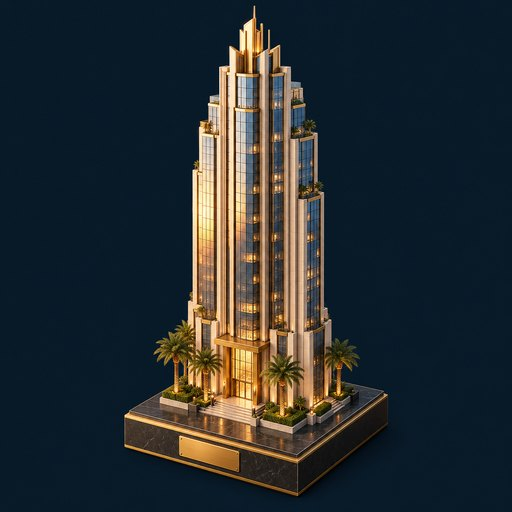
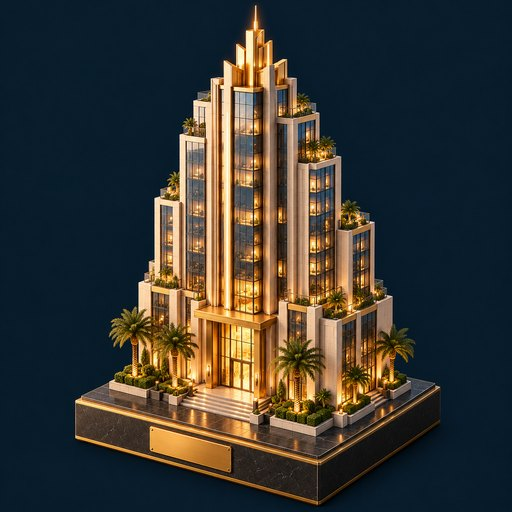
Skyline Estates: new Skyline Tower art; buildings face the player at camera angle
Claude-Session: https://claude.ai/code/session_01RNdXtxj5jJWnrVFgMCF1s1

diff --git a/skyline-estates/game.html b/skyline-estates/game.html
@@ -6923,7 +6923,7 @@ BLD.splice(0,BLD.length,
   ['Townhouse','A pair of townhouses with terracotta fins, timber louvres and glass balconies.','2 houses'],
   ['Apartments','Three floors of glass balconies and planters, with solar panels on the roof.','3 houses'],
   ['Boutique hotel','Terracotta pilasters, flower-box balconies and a tiled roof pavilion with a garden terrace.','4 houses'],
-  ['Skyline Tower','A glass skyscraper with stone fins, a golden crown and palms at the door.','Tower']);
+  ['Skyline Tower','A stepped art deco tower with lit windows, sky gardens, a gold crown and palms at the door.','Tower']);
 paneBuildings=function(T){
   T.innerHTML=`<div class="phead"><h2>Buildings</h2><span class="small">What grows on your streets as you build</span></div>
     <div class="small">Own a full colour set to start building. Each house you add grows the street to the next building, and after four houses you can build the Skyline Tower. The more you build, the higher the rent.</div>
@@ -6933,7 +6933,7 @@ if(PREF.illBld===undefined)PREF.illBld=true;
 const BLDTEX={};
 function bldTex(l,cb){let e=BLDTEX[l];if(e){e.t?cb(e.t):e.q.push(cb);return}e=BLDTEX[l]={t:null,q:[cb]};
   const im=new Image();im.onload=()=>{if(!GL)return;const c=document.createElement('canvas');c.width=c.height=512;c.getContext('2d').drawImage(im,0,0,512,512);e.t=texFrom(c);e.q.forEach(f=>f(e.t));e.q=[]};im.src=bldPic(l)}
-const BLD_SC=[.8,.88,.98,1.04,1.14,1.5];
+const BLD_SC=[.8,.88,.98,1.04,1.14,1.32];
 function bldBill(b,lv,col,mort){const F=FM();
   
   const mt=mat(mort?'#8a8f96':'#ffffff',{unlit:1,blend:1}),q=N(bQuad(),mt,0,0,0).sc(BLD_SC[lv]);q.visible=false;b.add(q);
@@ -6960,8 +6960,8 @@ SUBS.progress=SUBS.progress.filter(s=>s[0]!=='ach');SEC_OF.ach='ach';
 function nodeWorld(n){const ch=[];let k=n;while(k){ch.unshift(k);k=k.parent}let M=null,yaw=0;for(const x of ch){const cm=M4.compose(x.p,x.r,x.s);M=M?M4.mul(M,cm):cm;yaw+=x.r[1]}return{M,yaw,root:ch[0]===ROOT}}
 function faceOut(q){(S3.bq=S3.bq||new Set()).add(q);q.snap=null}
 /* upright, no tilt; all buildings face the side of the board the camera is on, snapped to 90°, so they stay still while you play */
-{const _ds3=drawScene;drawScene=function(time){if(S3&&S3.bq&&S3.bq.size&&CAMV){const dx=CAMV.pos[0]-CAMV.look[0],dz=CAMV.pos[2]-CAMV.look[2],Q=Math.PI/2,sn=Math.round(Math.atan2(dx,dz)/Q)*Q;
-    for(const q of S3.bq){const w=nodeWorld(q.parent);if(!w.root){if(q.snap!=null)S3.bq.delete(q);continue}if(q.snap!==sn){q.snap=sn;q.r=[0,sn-w.yaw,0]}}}return _ds3(time)}}
+{const _ds3=drawScene;drawScene=function(time){if(S3&&S3.bq&&S3.bq.size&&CAMV){const dx=CAMV.pos[0]-CAMV.look[0],dy=CAMV.pos[1]-CAMV.look[1],dz=CAMV.pos[2]-CAMV.look[2],Q=Math.PI/2,sn=Math.round(Math.atan2(dx,dz)/Q)*Q,tl=-Math.round(Math.atan2(dy,Math.hypot(dx,dz))*.55*40)/40;
+    for(const q of S3.bq){const w=nodeWorld(q.parent);if(!w.root){if(q.snap!=null)S3.bq.delete(q);continue}if(q.snap!==sn||q.tl!==tl){q.snap=sn;q.tl=tl;q.r=[tl,sn-w.yaw,0]}}}return _ds3(time)}}
 /* double-tap a building (or any owned street) to fly the camera close; double-tap again to return */
 let BZ=null;
 function plotAt(cx,cy){if(!S3||!G||!CAMM.vp)return -1;const cv=$('#gl'),r=cv.getBoundingClientRect(),m=CAMM.vp;let best=-1,bd=1e9;

diff --git a/skyline-estates/index.html b/skyline-estates/index.html
@@ -6923,7 +6923,7 @@ BLD.splice(0,BLD.length,
   ['Townhouse','A pair of townhouses with terracotta fins, timber louvres and glass balconies.','2 houses'],
   ['Apartments','Three floors of glass balconies and planters, with solar panels on the roof.','3 houses'],
   ['Boutique hotel','Terracotta pilasters, flower-box balconies and a tiled roof pavilion with a garden terrace.','4 houses'],
-  ['Skyline Tower','A glass skyscraper with stone fins, a golden crown and palms at the door.','Tower']);
+  ['Skyline Tower','A stepped art deco tower with lit windows, sky gardens, a gold crown and palms at the door.','Tower']);
 paneBuildings=function(T){
   T.innerHTML=`<div class="phead"><h2>Buildings</h2><span class="small">What grows on your streets as you build</span></div>
     <div class="small">Own a full colour set to start building. Each house you add grows the street to the next building, and after four houses you can build the Skyline Tower. The more you build, the higher the rent.</div>
@@ -6933,7 +6933,7 @@ if(PREF.illBld===undefined)PREF.illBld=true;
 const BLDTEX={};
 function bldTex(l,cb){let e=BLDTEX[l];if(e){e.t?cb(e.t):e.q.push(cb);return}e=BLDTEX[l]={t:null,q:[cb]};
   const im=new Image();im.onload=()=>{if(!GL)return;const c=document.createElement('canvas');c.width=c.height=512;c.getContext('2d').drawImage(im,0,0,512,512);e.t=texFrom(c);e.q.forEach(f=>f(e.t));e.q=[]};im.src=bldPic(l)}
-const BLD_SC=[.8,.88,.98,1.04,1.14,1.5];
+const BLD_SC=[.8,.88,.98,1.04,1.14,1.32];
 function bldBill(b,lv,col,mort){const F=FM();
   
   const mt=mat(mort?'#8a8f96':'#ffffff',{unlit:1,blend:1}),q=N(bQuad(),mt,0,0,0).sc(BLD_SC[lv]);q.visible=false;b.add(q);
@@ -6960,8 +6960,8 @@ SUBS.progress=SUBS.progress.filter(s=>s[0]!=='ach');SEC_OF.ach='ach';
 function nodeWorld(n){const ch=[];let k=n;while(k){ch.unshift(k);k=k.parent}let M=null,yaw=0;for(const x of ch){const cm=M4.compose(x.p,x.r,x.s);M=M?M4.mul(M,cm):cm;yaw+=x.r[1]}return{M,yaw,root:ch[0]===ROOT}}
 function faceOut(q){(S3.bq=S3.bq||new Set()).add(q);q.snap=null}
 /* upright, no tilt; all buildings face the side of the board the camera is on, snapped to 90°, so they stay still while you play */
-{const _ds3=drawScene;drawScene=function(time){if(S3&&S3.bq&&S3.bq.size&&CAMV){const dx=CAMV.pos[0]-CAMV.look[0],dz=CAMV.pos[2]-CAMV.look[2],Q=Math.PI/2,sn=Math.round(Math.atan2(dx,dz)/Q)*Q;
-    for(const q of S3.bq){const w=nodeWorld(q.parent);if(!w.root){if(q.snap!=null)S3.bq.delete(q);continue}if(q.snap!==sn){q.snap=sn;q.r=[0,sn-w.yaw,0]}}}return _ds3(time)}}
+{const _ds3=drawScene;drawScene=function(time){if(S3&&S3.bq&&S3.bq.size&&CAMV){const dx=CAMV.pos[0]-CAMV.look[0],dy=CAMV.pos[1]-CAMV.look[1],dz=CAMV.pos[2]-CAMV.look[2],Q=Math.PI/2,sn=Math.round(Math.atan2(dx,dz)/Q)*Q,tl=-Math.round(Math.atan2(dy,Math.hypot(dx,dz))*.55*40)/40;
+    for(const q of S3.bq){const w=nodeWorld(q.parent);if(!w.root){if(q.snap!=null)S3.bq.delete(q);continue}if(q.snap!==sn||q.tl!==tl){q.snap=sn;q.tl=tl;q.r=[tl,sn-w.yaw,0]}}}return _ds3(time)}}
 /* double-tap a building (or any owned street) to fly the camera close; double-tap again to return */
 let BZ=null;
 function plotAt(cx,cy){if(!S3||!G||!CAMM.vp)return -1;const cv=$('#gl'),r=cv.getBoundingClientRect(),m=CAMM.vp;let best=-1,bd=1e9;
